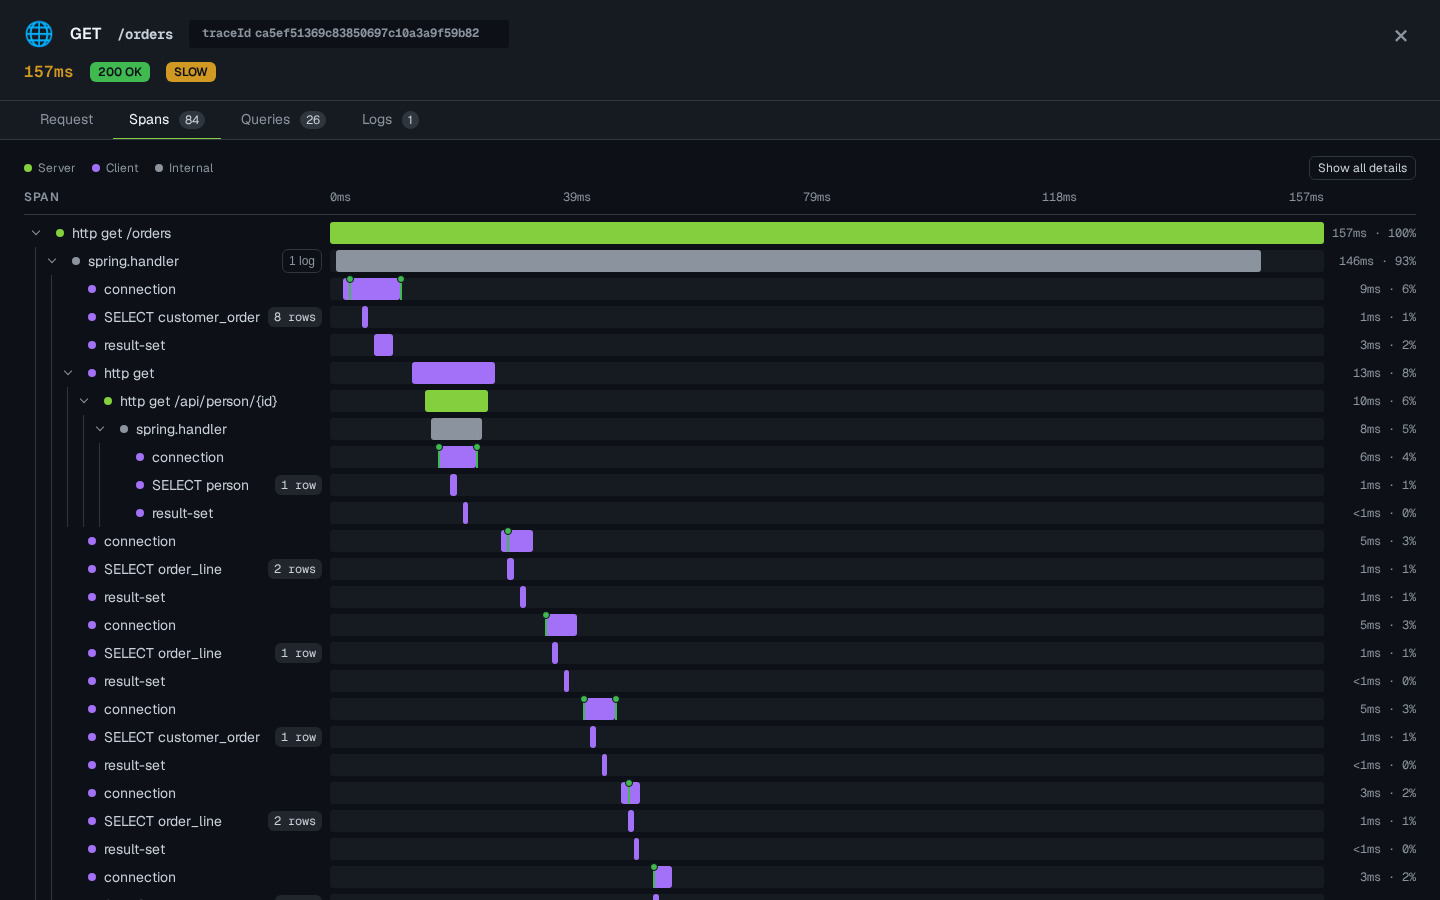
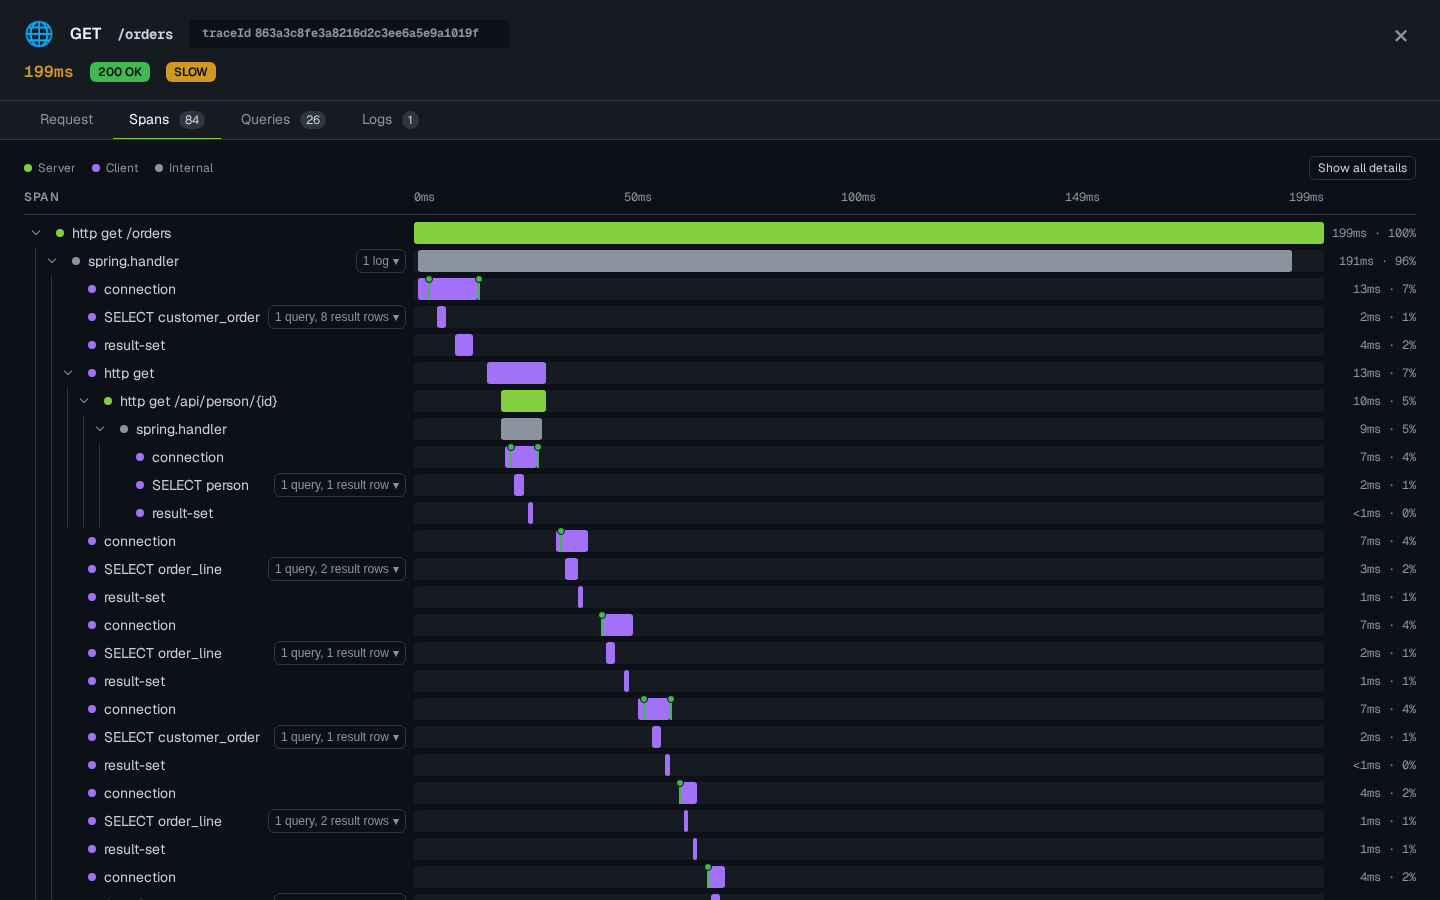
docs: show query and logs panels in the Spans tab

diff --git a/docs/traces.md b/docs/traces.md
@@ -150,8 +150,9 @@ tabs and opens on Spans.
 
 Spans shows the span tree with each span's kind, tags and duration, nested as they ran. Click
 a span's name for its details: kind, a copyable span id, and where they apply the error class
-and message, the query's statement, and the full tags. A span that logged lists its logs there
-too, stack traces folded as on the Logs tab, with a "Show in Logs tab" button.
+and message, and the full tags. A query span also carries a "1 query" button, and a span that
+logged an "N logs" button; each opens its own panel in place - the statement with its row
+count, or that span's own logs, stack traces folded as on the Logs tab.
 
 <figure class="image">
   <img src="{{ '/assets/img/screenshots/trace-detail-queries-light.png' | relative_url }}"
@@ -178,8 +179,8 @@ parameters, and request and response headers. Logs and Request are filled only w
 toolbar is on. See [Dev toolbar]({{ '/docs/dev-toolbar/' | relative_url }}) for what is masked
 and what is not.
 
-The tabs link to each other. A database span's details have a "Show in Queries tab" button,
-and a query or a log line jumps back to its span in the tree.
+A query or a log line jumps back to its span in the tree; a span's own query and logs sit
+beside its attributes instead of linking out to the other tabs.
 
 ## Status and issues {#trace-status}
 
